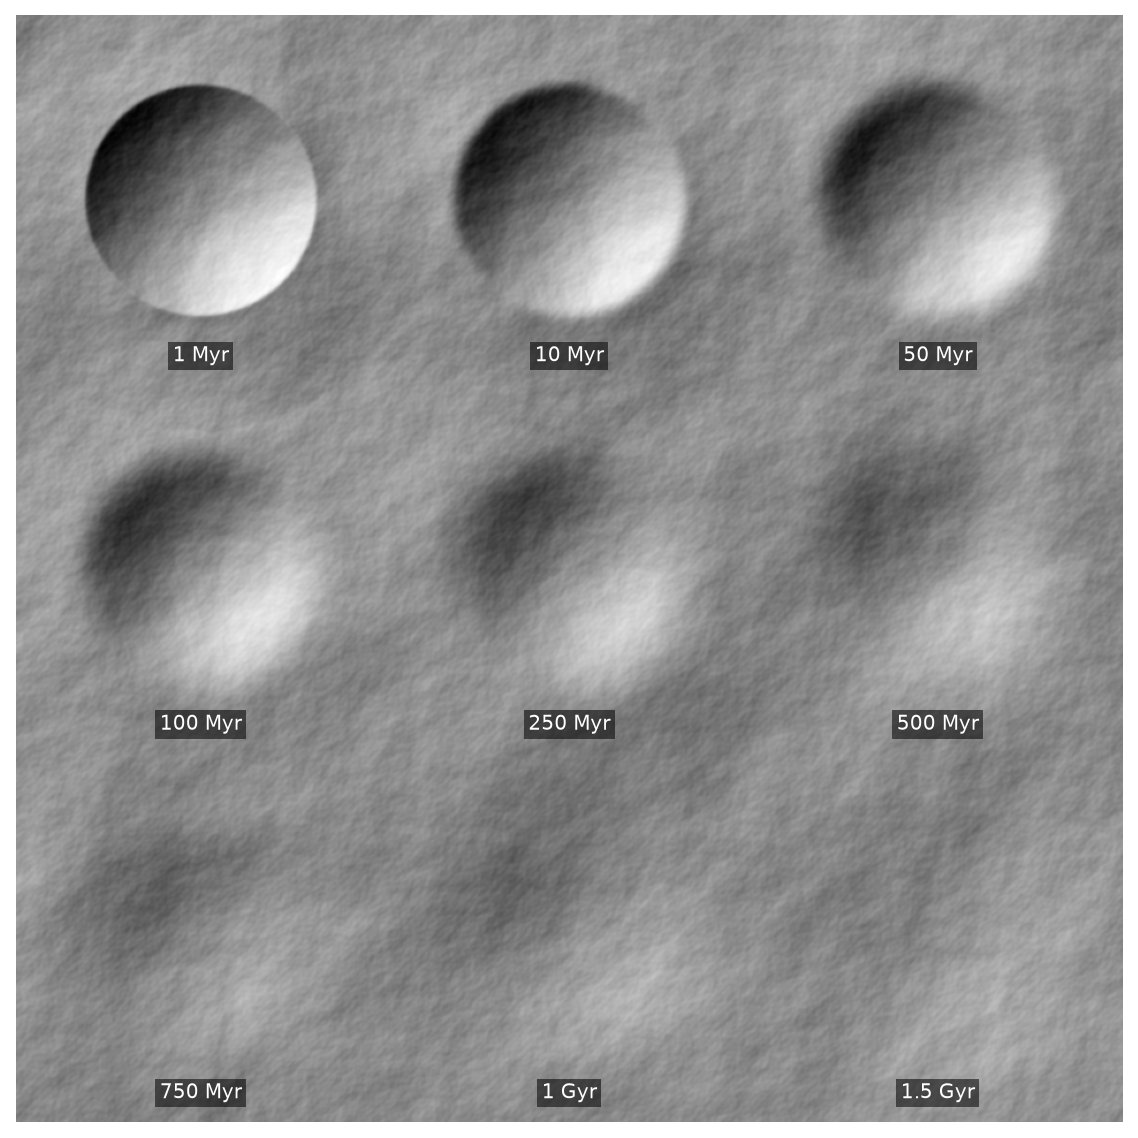
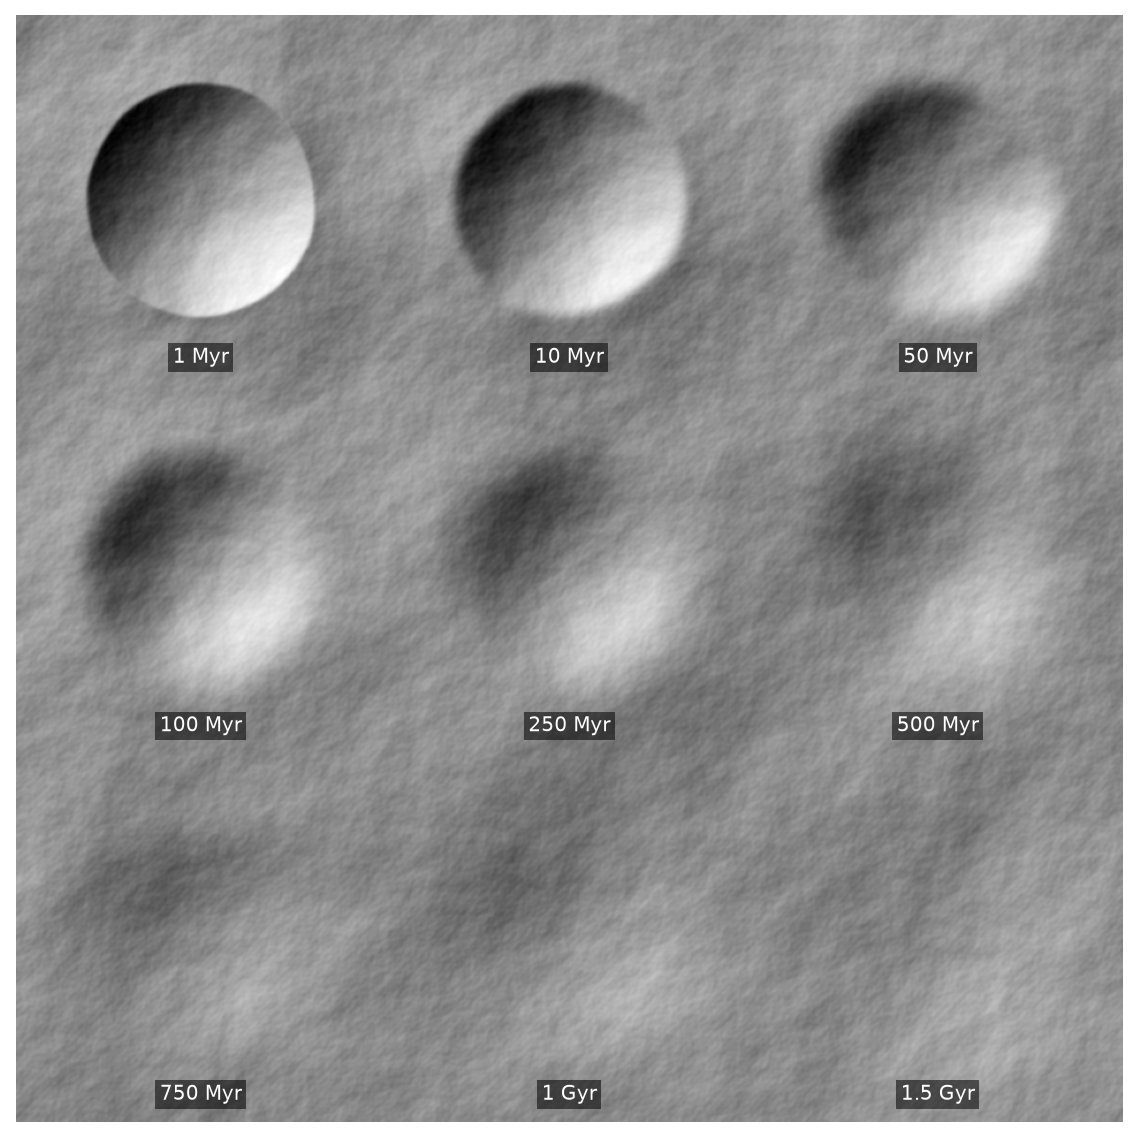
Gallery: crater grids by freshness and by rim roughness, no rim smoothing in the gallery

diff --git a/docs/gallery/gallery.py b/docs/gallery/gallery.py
@@ -71,6 +71,59 @@ def show_map(ax, values, pixel, cmap="gray", label=""):
     ax.figure.colorbar(image, ax=ax, label=label, shrink=0.85)
 
 
+def grid_centers(spacing):
+    """The centers of a 3x3 grid `spacing` meters apart, row by row from the top left."""
+    return [((column - 1) * spacing, (1 - row) * spacing) for row in range(3) for column in range(3)]
+
+
+def irregular_outlines():
+    """Apply options giving manual craters irregular outlines too, as generated craters have."""
+    import terraingen
+
+    apply = terraingen.CraterApplyOptions()
+    irregularity = apply.irregularity
+    irregularity.enabled = True
+    selection = irregularity.selection
+    selection.manual = True
+    irregularity.selection = selection
+    apply.irregularity = irregularity
+    return apply
+
+
+def show_crater_grid(ax, layers, labels, spacing, pixel):
+    """Draws the crater `layers` over fractal relief, their nine craters on a 3x3 grid `spacing`
+    meters apart labeled with `labels`, lit by a low sun."""
+    import terraingen
+
+    size = int(3 * spacing / pixel) + 1
+    relief = terraingen.NoiseRelief(
+        [terraingen.NoiseLayer(terraingen.FractalParams(seed=2, wavelength=400.0, amplitude=12.0))]
+    )
+    terrain = terraingen.TerrainGenerator(terraingen.FlatSource(size, size, pixel), [relief, *layers])
+    heights = terraingen.evaluate(terrain).values
+    light = LightSource(azdeg=315, altdeg=25)
+    ax.imshow(
+        light.hillshade(heights, dx=pixel, dy=pixel),
+        cmap="gray",
+        vmin=0,
+        vmax=1,
+        extent=extent(heights, pixel),
+    )
+    for (x, y), label in zip(grid_centers(spacing), labels, strict=True):
+        ax.text(
+            x,
+            y - 0.4 * spacing,
+            label,
+            ha="center",
+            va="top",
+            color="white",
+            fontsize=9,
+            bbox={"facecolor": "black", "alpha": 0.55, "edgecolor": "none", "pad": 2},
+        )
+    ax.set_axis_off()
+    return terrain
+
+
 def figures():
     """Every figure script as (name, path), its name `<category>/<stem>`."""
     return [(f"{p.parent.name}/{p.stem}", p) for p in sorted(GALLERY.glob("*/*.py"))]

diff --git a/docs/gallery/craters/degradation_by_age.py b/docs/gallery/craters/degradation_by_age.py
@@ -4,7 +4,6 @@
 
 import gallery
 import matplotlib.pyplot as plt
-from matplotlib.colors import LightSource
 
 import terraingen
 
@@ -18,39 +17,13 @@ def age_text(age_gyr):
 
 
 def figure(quick=False):
-    pixel = 4.0 if quick else 0.75
-    size = int(3 * SPACING / pixel) + 1
-    centers = [((column - 1) * SPACING, (1 - row) * SPACING) for row in range(3) for column in range(3)]
     craters = [
-        terraingen.Crater(x, y, DIAMETER, age_gyr=age) for (x, y), age in zip(centers, AGES_GYR, strict=True)
+        terraingen.Crater(x, y, DIAMETER, age_gyr=age)
+        for (x, y), age in zip(gallery.grid_centers(SPACING), AGES_GYR, strict=True)
     ]
-    relief = terraingen.NoiseRelief(
-        [terraingen.NoiseLayer(terraingen.FractalParams(seed=2, wavelength=400.0, amplitude=12.0))]
-    )
-    terrain = terraingen.TerrainGenerator(
-        terraingen.FlatSource(size, size, pixel), [relief, terraingen.CraterLayer.manual(craters)]
-    )
-    heights = terraingen.evaluate(terrain).values
-
-    light = LightSource(azdeg=315, altdeg=25)
+    layer = terraingen.CraterLayer.manual(craters, apply=gallery.irregular_outlines())
     fig, ax = plt.subplots(figsize=(7, 7), layout="constrained")
-    ax.imshow(
-        light.hillshade(heights, dx=pixel, dy=pixel),
-        cmap="gray",
-        vmin=0,
-        vmax=1,
-        extent=gallery.extent(heights, pixel),
+    gallery.show_crater_grid(
+        ax, [layer], [age_text(age) for age in AGES_GYR], SPACING, 4.0 if quick else 0.75
     )
-    for (x, y), age in zip(centers, AGES_GYR, strict=True):
-        ax.text(
-            x,
-            y - 0.5 * DIAMETER - 20.0,
-            age_text(age),
-            ha="center",
-            va="top",
-            color="white",
-            fontsize=9,
-            bbox={"facecolor": "black", "alpha": 0.55, "edgecolor": "none", "pad": 2},
-        )
-    ax.set_axis_off()
     return fig

diff --git a/docs/gallery/craters/degradation_by_freshness.py b/docs/gallery/craters/degradation_by_freshness.py
@@ -1,0 +1,37 @@
+# SPDX-License-Identifier: BSD-3-Clause
+
+"""Nine identical craters from fresh (freshness 1) to worn (freshness 0.2), under freshness degradation:
+a crater of freshness f is (1 - f) of its lifetime old, its depth that much of the way from fresh to
+the cutoff depth."""
+
+import gallery
+import matplotlib.pyplot as plt
+
+import terraingen
+
+FRESHNESS = [1.0, 0.9, 0.8, 0.7, 0.6, 0.5, 0.4, 0.3, 0.2]
+LIFETIME_GYR = 1.0
+DIAMETER = 150.0
+SPACING = 240.0
+
+
+def figure(quick=False):
+    ages = terraingen.FreshnessAges(terraingen.ValueDistribution.constant(1.0), LIFETIME_GYR)
+    models = terraingen.CraterModels(
+        None,
+        ages,
+        terraingen.FreshnessDegradation(
+            ages, terraingen.lunar_fresh_crater_morphometry, cutoff_depth_ratio=0.01
+        ),
+        terraingen.MartinParkesDunstanProfile(),
+    )
+    craters = [
+        terraingen.Crater(x, y, DIAMETER, age_gyr=(1.0 - f) * LIFETIME_GYR)
+        for (x, y), f in zip(gallery.grid_centers(SPACING), FRESHNESS, strict=True)
+    ]
+    layer = terraingen.CraterLayer.manual(craters, models, apply=gallery.irregular_outlines())
+    fig, ax = plt.subplots(figsize=(7, 7), layout="constrained")
+    gallery.show_crater_grid(
+        ax, [layer], [f"freshness {f:.1f}" for f in FRESHNESS], SPACING, 4.0 if quick else 0.75
+    )
+    return fig

diff --git a/docs/gallery/craters/irregularity.py b/docs/gallery/craters/irregularity.py
@@ -1,0 +1,37 @@
+# SPDX-License-Identifier: BSD-3-Clause
+
+"""Nine identical young craters with rims roughened from round (0) to an RMS deviation of 0.1 radii,
+near the largest that keeps rims from folding."""
+
+import gallery
+import matplotlib.pyplot as plt
+
+import terraingen
+
+ROUGHNESS = [0.0, 0.01, 0.02, 0.03, 0.04, 0.05, 0.06, 0.08, 0.1]
+DIAMETER = 150.0
+SPACING = 240.0
+
+
+def rough_rims(roughness):
+    """Apply options roughening every crater's rim by `roughness` radii RMS, none stretched."""
+    apply = gallery.irregular_outlines()
+    irregularity = apply.irregularity
+    irregularity.enabled = roughness > 0.0
+    irregularity.seed = 3
+    irregularity.elongated_share = 0.0
+    irregularity.roughness = terraingen.ValueDistribution.constant(roughness)
+    apply.irregularity = irregularity
+    return apply
+
+
+def figure(quick=False):
+    layers = [
+        terraingen.CraterLayer.manual([terraingen.Crater(x, y, DIAMETER, age_gyr=0.01)], apply=rough_rims(r))
+        for (x, y), r in zip(gallery.grid_centers(SPACING), ROUGHNESS, strict=True)
+    ]
+    fig, ax = plt.subplots(figsize=(7, 7), layout="constrained")
+    gallery.show_crater_grid(
+        ax, layers, [f"roughness {r:g}" for r in ROUGHNESS], SPACING, 4.0 if quick else 0.75
+    )
+    return fig

diff --git a/docs/_src/concepts/craters-and-boulders.md b/docs/_src/concepts/craters-and-boulders.md
@@ -74,6 +74,23 @@ or by topographic diffusion.
     --8<-- "docs/gallery/craters/degradation_by_age.py"
     ```
 
+Freshness degradation instead sets each crater's depth from its freshness, its depth over its fresh
+depth, whatever its size; Martin, Parkes and Dunstan's profile lowers and rounds the rim with it.
+
+<figure markdown>
+
+![Nine identical 150 m craters on a 3x3 grid, from freshness 1 to freshness 0.2, shallower with a lower, rounder rim as freshness falls](../images/gallery/craters/degradation_by_freshness.jpg)
+
+<figcaption>The same craters from freshness 1 to 0.2, under freshness degradation.</figcaption>
+
+</figure>
+
+??? example "Reproduce this figure"
+
+    ```python
+    --8<-- "docs/gallery/craters/degradation_by_freshness.py"
+    ```
+
 <figure markdown>
 
 ![The same crater field under four degradation models: none, freshness, and diffusion with the Fassett and Thomson (2014) and Fassett et al. (2022) diffusivities](../images/gallery/craters/degradation.jpg)
@@ -86,6 +103,25 @@ or by topographic diffusion.
 
     ```python
     --8<-- "docs/gallery/craters/degradation.py"
+    ```
+
+## Irregular outlines
+
+Rims can be roughened by random harmonics, set by their RMS deviation from a circle in radii, and
+some craters stretched into ellipses.
+
+<figure markdown>
+
+![Nine identical young craters on a 3x3 grid with rim roughness from 0, a circle, to 0.1 radii, increasingly wavy outlines](../images/gallery/craters/irregularity.jpg)
+
+<figcaption>The same young craters with rim roughness from 0 to 0.1 radii.</figcaption>
+
+</figure>
+
+??? example "Reproduce this figure"
+
+    ```python
+    --8<-- "docs/gallery/craters/irregularity.py"
     ```
 
 ## Heights and albedo
